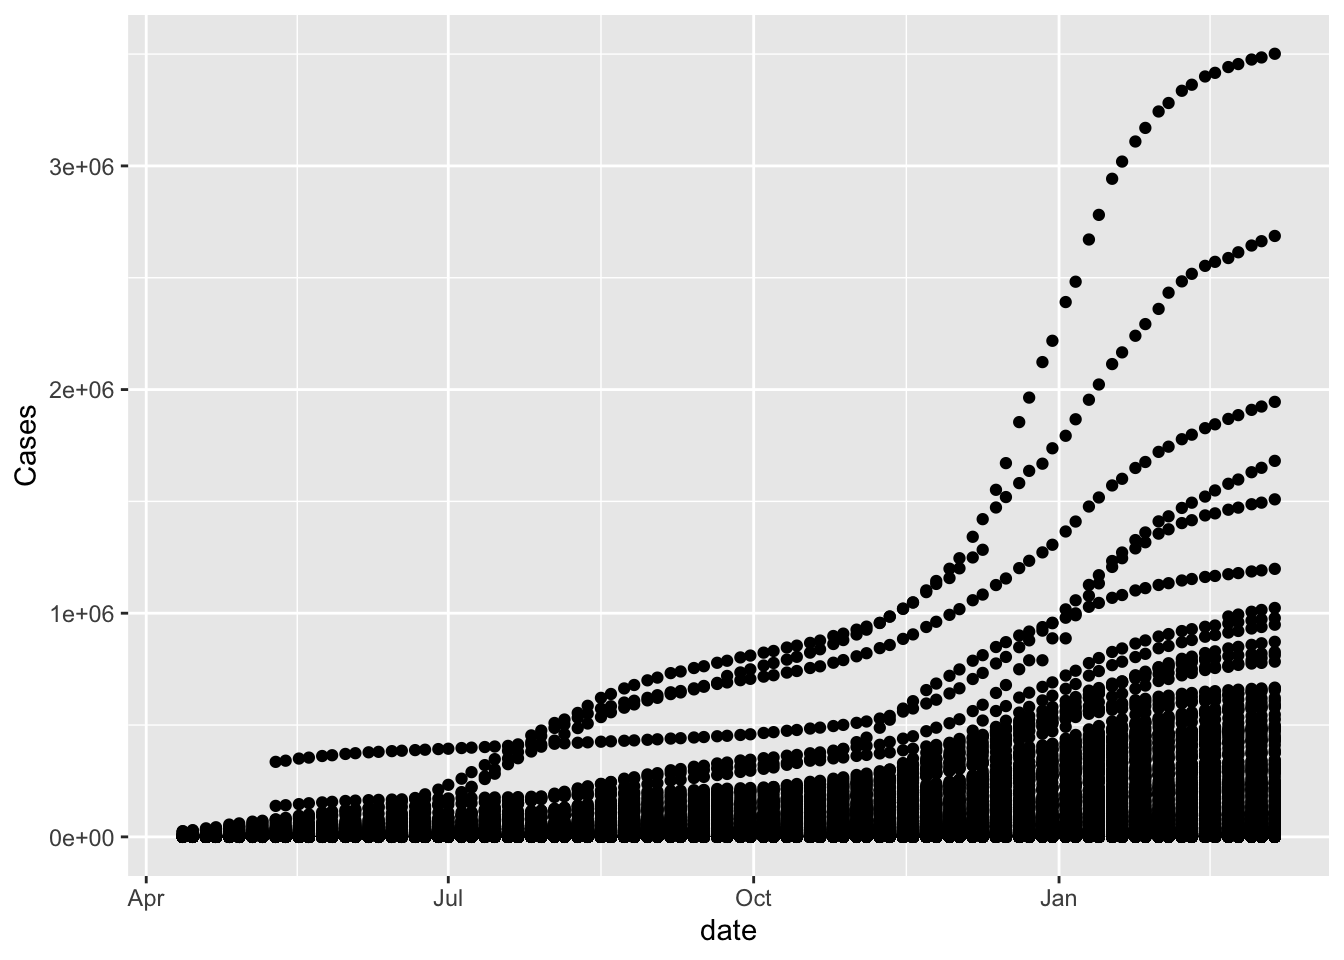
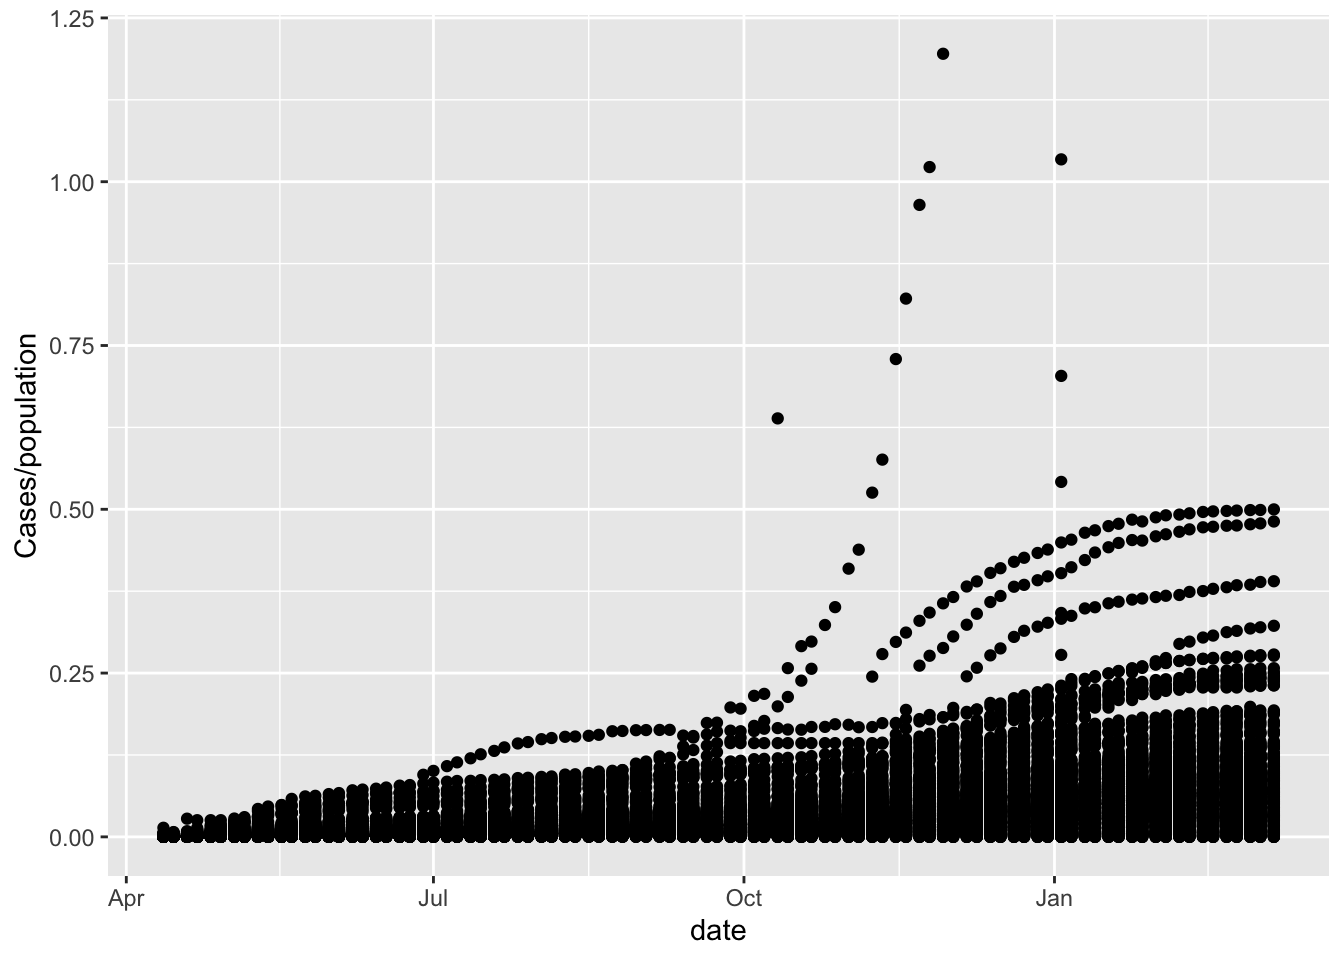
Week 2 in class work, submission 1

diff --git a/Week_02_Covid_Vis.html b/Week_02_Covid_Vis.html
@@ -2,11 +2,11 @@
 <html xmlns="http://www.w3.org/1999/xhtml" lang="en" xml:lang="en"><head>
 
 <meta charset="utf-8">
-<meta name="generator" content="quarto-1.3.450">
+<meta name="generator" content="quarto-1.3.353">
 
 <meta name="viewport" content="width=device-width, initial-scale=1.0, user-scalable=yes">
 
-<meta name="author" content="[[Your Name]]">
+<meta name="author" content="Renata Serio">
 <meta name="dcterms.date" content="2023-09-11">
 
 <title>Week 02: COVID Visualization Activity</title>
@@ -91,7 +91,7 @@ pre > code.sourceCode > span > a:first-child::before { text-decoration: underlin
     <div>
     <div class="quarto-title-meta-heading">Author</div>
     <div class="quarto-title-meta-contents">
-             <p><strong><code>[[</code></strong>Your Name<strong><code>]]</code></strong> </p>
+             <p>Renata Serio </p>
           </div>
   </div>
     
@@ -113,7 +113,7 @@ pre > code.sourceCode > span > a:first-child::before { text-decoration: underlin
 <div class="sourceCode cell-code" id="cb1"><pre class="sourceCode r code-with-copy"><code class="sourceCode r"><span id="cb1-1"><a href="#cb1-1" aria-hidden="true" tabindex="-1"></a><span class="fu">library</span>(tidyverse)</span></code><button title="Copy to Clipboard" class="code-copy-button"><i class="bi"></i></button></pre></div>
 <div class="cell-output cell-output-stderr">
 <pre><code>── Attaching core tidyverse packages ──────────────────────── tidyverse 2.0.0 ──
-✔ dplyr     1.1.2     ✔ readr     2.1.4
+✔ dplyr     1.1.3     ✔ readr     2.1.4
 ✔ forcats   1.0.0     ✔ stringr   1.5.0
 ✔ ggplot2   3.4.3     ✔ tibble    3.2.1
 ✔ lubridate 1.9.2     ✔ tidyr     1.3.0
@@ -132,29 +132,63 @@ pre > code.sourceCode > span > a:first-child::before { text-decoration: underlin
 </div>
 <p>I’ve include 4 different data sets. They all have the same data but have it represented in different ways. Try using the different data sets and see which ones are good for making which plots.</p>
 <div class="cell">
-<div class="sourceCode cell-code" id="cb5"><pre class="sourceCode r code-with-copy"><code class="sourceCode r"><span id="cb5-1"><a href="#cb5-1" aria-hidden="true" tabindex="-1"></a><span class="fu">ggplot</span>(covid_data_count, <span class="fu">aes</span>(<span class="at">x =</span> date, <span class="at">y =</span> Cases)) <span class="sc">+</span> <span class="fu">geom_point</span>()</span></code><button title="Copy to Clipboard" class="code-copy-button"><i class="bi"></i></button></pre></div>
+<div class="sourceCode cell-code" id="cb5"><pre class="sourceCode r code-with-copy"><code class="sourceCode r"><span id="cb5-1"><a href="#cb5-1" aria-hidden="true" tabindex="-1"></a><span class="fu">ggplot</span>(covid_data_count, <span class="fu">aes</span>(<span class="at">x =</span> date, <span class="at">y =</span> Cases<span class="sc">/</span>population)) <span class="sc">+</span> <span class="fu">geom_point</span>()</span></code><button title="Copy to Clipboard" class="code-copy-button"><i class="bi"></i></button></pre></div>
 <div class="cell-output cell-output-stderr">
 <pre><code>Warning: Removed 1385 rows containing missing values (`geom_point()`).</code></pre>
 </div>
 <div class="cell-output-display">
 <p><img src="Week_02_Covid_Vis_files/figure-html/first_plot-1.png" class="img-fluid" width="672"></p>
 </div>
+<div class="sourceCode cell-code" id="cb7"><pre class="sourceCode r code-with-copy"><code class="sourceCode r"><span id="cb7-1"><a href="#cb7-1" aria-hidden="true" tabindex="-1"></a><span class="fu">ggplot</span>(covid_data_orig, <span class="fu">aes</span>(<span class="at">x =</span> State, <span class="at">y =</span> Cases_Total)) <span class="sc">+</span> <span class="fu">geom_boxplot</span>() <span class="sc">+</span> <span class="fu">theme</span>(<span class="at">axis.text.x=</span><span class="fu">element_text</span>(<span class="at">angle =</span> <span class="dv">45</span>))</span></code><button title="Copy to Clipboard" class="code-copy-button"><i class="bi"></i></button></pre></div>
+<div class="cell-output cell-output-stderr">
+<pre><code>Warning: Removed 232 rows containing non-finite values (`stat_boxplot()`).</code></pre>
+</div>
+<div class="cell-output-display">
+<p><img src="Week_02_Covid_Vis_files/figure-html/first_plot-2.png" class="img-fluid" width="672"></p>
+</div>
+<div class="sourceCode cell-code" id="cb9"><pre class="sourceCode r code-with-copy"><code class="sourceCode r"><span id="cb9-1"><a href="#cb9-1" aria-hidden="true" tabindex="-1"></a><span class="fu">ggplot</span>(covid_data_long, <span class="fu">aes</span>(<span class="at">y =</span> count, <span class="at">x =</span> race, <span class="at">fill =</span> count_type)) <span class="sc">+</span> <span class="fu">geom_boxplot</span>()</span></code><button title="Copy to Clipboard" class="code-copy-button"><i class="bi"></i></button></pre></div>
+<div class="cell-output-display">
+<p><img src="Week_02_Covid_Vis_files/figure-html/first_plot-3.png" class="img-fluid" width="672"></p>
+</div>
 </div>
 <p>If you want to only look at a specific state, you can do it like this. For now, see what you can do just using <code>ggplot</code>.</p>
 <div class="cell">
-<div class="sourceCode cell-code" id="cb7"><pre class="sourceCode r code-with-copy"><code class="sourceCode r"><span id="cb7-1"><a href="#cb7-1" aria-hidden="true" tabindex="-1"></a>covid_data_count <span class="sc">|&gt;</span> </span>
-<span id="cb7-2"><a href="#cb7-2" aria-hidden="true" tabindex="-1"></a>  <span class="fu">filter</span>(state <span class="sc">==</span> <span class="st">"MA"</span>) <span class="sc">|&gt;</span> </span>
-<span id="cb7-3"><a href="#cb7-3" aria-hidden="true" tabindex="-1"></a>  <span class="fu">ggplot</span>(<span class="fu">aes</span>(<span class="at">x =</span> date, <span class="at">y =</span> Cases, <span class="at">color =</span> race)) <span class="sc">+</span> <span class="fu">geom_line</span>()</span></code><button title="Copy to Clipboard" class="code-copy-button"><i class="bi"></i></button></pre></div>
+<div class="sourceCode cell-code" id="cb10"><pre class="sourceCode r code-with-copy"><code class="sourceCode r"><span id="cb10-1"><a href="#cb10-1" aria-hidden="true" tabindex="-1"></a>covid_data_count <span class="sc">|&gt;</span> </span>
+<span id="cb10-2"><a href="#cb10-2" aria-hidden="true" tabindex="-1"></a>  <span class="fu">filter</span>(state <span class="sc">==</span> <span class="st">"ME"</span>) <span class="sc">|&gt;</span> </span>
+<span id="cb10-3"><a href="#cb10-3" aria-hidden="true" tabindex="-1"></a>  <span class="fu">ggplot</span>(<span class="fu">aes</span>(<span class="at">x =</span> date, <span class="at">y =</span> Cases, <span class="at">color =</span> race)) <span class="sc">+</span> <span class="fu">geom_line</span>()</span></code><button title="Copy to Clipboard" class="code-copy-button"><i class="bi"></i></button></pre></div>
 <div class="cell-output-display">
 <p><img src="Week_02_Covid_Vis_files/figure-html/unnamed-chunk-1-1.png" class="img-fluid" width="672"></p>
 </div>
 </div>
 <ol type="1">
 <li>Write code for a plot and describe what you observe?</li>
-<li>Are there any conclusions you can draw?</li>
-<li>What were you not able to do due to not having the R knowledge?</li>
-<li>What other data would be useful to better understand this data?</li>
 </ol>
+<div class="cell">
+<div class="sourceCode cell-code" id="cb11"><pre class="sourceCode r code-with-copy"><code class="sourceCode r"><span id="cb11-1"><a href="#cb11-1" aria-hidden="true" tabindex="-1"></a>x <span class="ot">&lt;-</span> <span class="fu">subset</span>(covid_data_long, race <span class="sc">!=</span> <span class="st">"Total"</span>)</span>
+<span id="cb11-2"><a href="#cb11-2" aria-hidden="true" tabindex="-1"></a><span class="fu">ggplot</span>(x, <span class="fu">aes</span>(<span class="at">x =</span> race, <span class="at">fill =</span> count_type)) <span class="sc">+</span> <span class="fu">geom_bar</span>(<span class="at">position =</span> <span class="st">"dodge"</span>)</span></code><button title="Copy to Clipboard" class="code-copy-button"><i class="bi"></i></button></pre></div>
+<div class="cell-output-display">
+<p><img src="Week_02_Covid_Vis_files/figure-html/unnamed-chunk-2-1.png" class="img-fluid" width="672"></p>
+</div>
+<div class="sourceCode cell-code" id="cb12"><pre class="sourceCode r code-with-copy"><code class="sourceCode r"><span id="cb12-1"><a href="#cb12-1" aria-hidden="true" tabindex="-1"></a><span class="fu">ggplot</span>(x, <span class="fu">aes</span>(<span class="at">x =</span> count_type, <span class="at">fill =</span> race)) <span class="sc">+</span> <span class="fu">geom_bar</span>(<span class="at">position =</span> <span class="st">"dodge"</span>)</span></code><button title="Copy to Clipboard" class="code-copy-button"><i class="bi"></i></button></pre></div>
+<div class="cell-output-display">
+<p><img src="Week_02_Covid_Vis_files/figure-html/unnamed-chunk-2-2.png" class="img-fluid" width="672"></p>
+</div>
+<div class="sourceCode cell-code" id="cb13"><pre class="sourceCode r code-with-copy"><code class="sourceCode r"><span id="cb13-1"><a href="#cb13-1" aria-hidden="true" tabindex="-1"></a>y <span class="ot">&lt;-</span> <span class="fu">subset</span>(x, count_type <span class="sc">==</span> <span class="st">"Tests"</span>)</span>
+<span id="cb13-2"><a href="#cb13-2" aria-hidden="true" tabindex="-1"></a><span class="fu">ggplot</span>(y, <span class="fu">aes</span>(<span class="at">x =</span> race, <span class="at">fill =</span> count_type)) <span class="sc">+</span> <span class="fu">geom_bar</span>(<span class="at">position =</span> <span class="st">"dodge"</span>)</span></code><button title="Copy to Clipboard" class="code-copy-button"><i class="bi"></i></button></pre></div>
+<div class="cell-output-display">
+<p><img src="Week_02_Covid_Vis_files/figure-html/unnamed-chunk-2-3.png" class="img-fluid" width="672"></p>
+</div>
+</div>
+<p>As I was interested in the relationship between race, and covid related deaths, cases, tests and hospitalizations, I wanted to create a plot that could encompass all five of these factors. I created two bar plots, one looking at race on the x axis with a fill of “count_type” and the other is reversed. It appears from these two graphs that the majority of the cases, deaths and hospitalizations occur in white and black populations. And I did not feel like I had enough resolution to evalute the tests metric so I isolated this metric and plotted it alone.</p>
+<ol start="2" type="1">
+<li>Are there any conclusions you can draw?</li>
+</ol>
+<p>It appears that like I observed above the majority of the cases/hospitalizations/deaths from covid occurred in white and black populations. It also appears that there are slightly more cases than deaths in each of the populations aside from the “Latinx” population in which deaths outweigh total cases. The Latinx population also appears to have less access to testing compared with white, black, and asian populations. More investigation would be required to claim this is connected to the higher death rate.</p>
+<ol start="3" type="1">
+<li><p>What were you not able to do due to not having the R knowledge? As you can see in my code above, I was unable to master filtering data before plotting in ggplot2, therefore I manually created “subsets” named x and y to do this filtering process for me. I would like to get better a data wrangling within the context of ggplot itself ot make this process more streamlined. Additionally, I would like to incldue some evaluation of statistical significance here, but do not yet know how to include error bars or conduct a ANOVA/t-test in R.</p></li>
+<li><p>What other data would be useful to better understand this data?</p></li>
+</ol>
+<p>It was not clear how this data was collected and if due to the method of collection there was a bias for certain ethnicity groups or recovery groups. For instance, it seems like the death and case rates are fairly equal in count here, this is not representative of the reality of the virus, as the virus is likely to only kill about &lt;5% of individuals infected. This was not the case with this graph which is a king of “flag” that perhaps my method of displaying the data here was not adequate to properly represent the data as a whole.</p>
 
 </main>
 <!-- /main column -->
